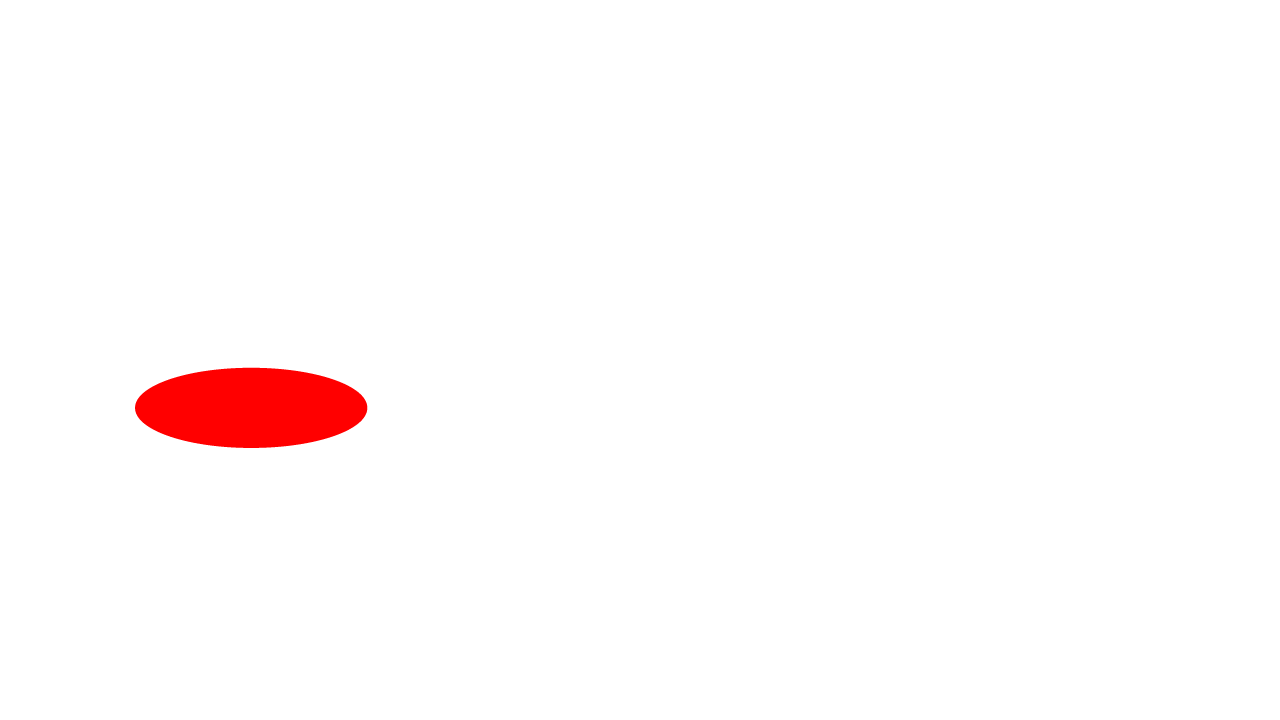
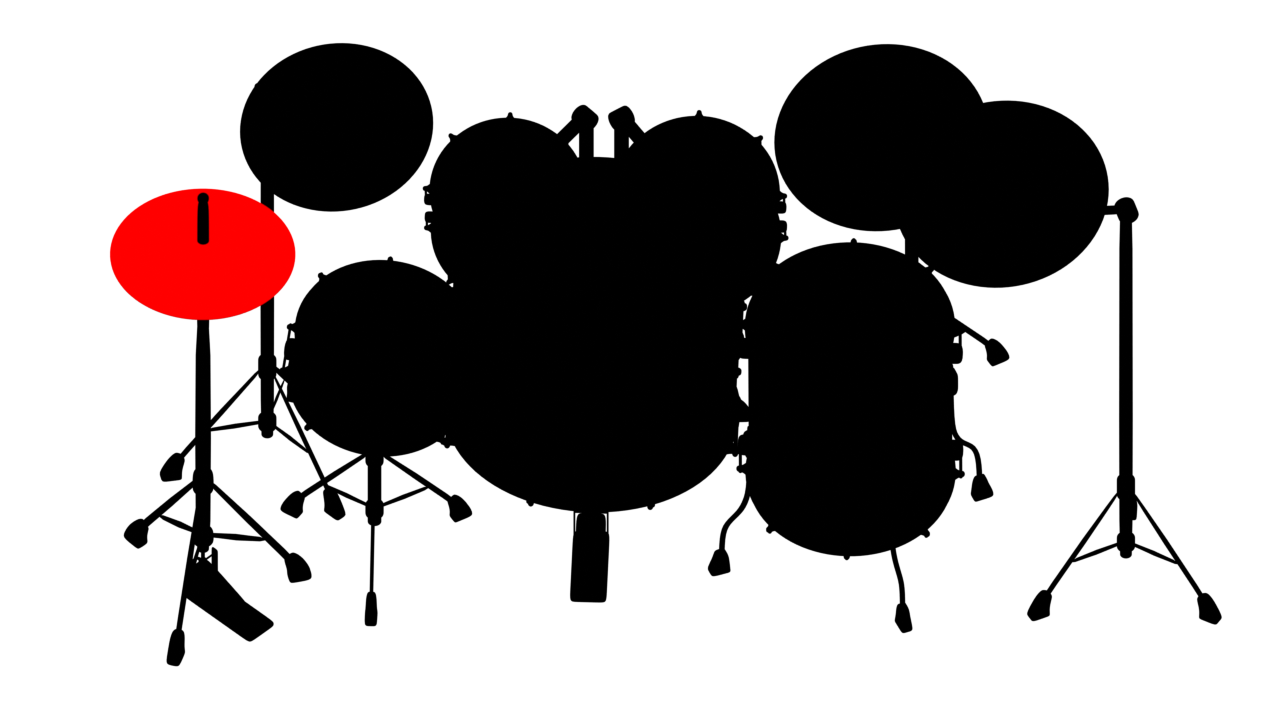
Add files via upload

diff --git a/index.html b/index.html
@@ -58,14 +58,22 @@ button:disabled { background:#555; cursor: not-allowed; opacity: 0.6; }
     top: 0;
     left: 0;
     width: 100%;
+    
+    /* 👇 黒を完全に消し去り、明るい色だけを「加算」します */
+    mix-blend-mode: screen;
+
     opacity: 0;
     pointer-events: none;
     transition: opacity 0.05s;
 }
+
 .drum-part.active {
     opacity: 1;
-    filter: brightness(1.5) drop-shadow(0 0 10px #ffc107);
+    /* スクリーンモードなら、brightnessが面白いほど効きます！ */
+    /* 1.5〜3.0くらいで、ネオンのように発光します */
+    filter: brightness(1.2) contrast(3);
 }
+
 #btnCloseDrum {
     background: #666;
     border-radius: 3px;
